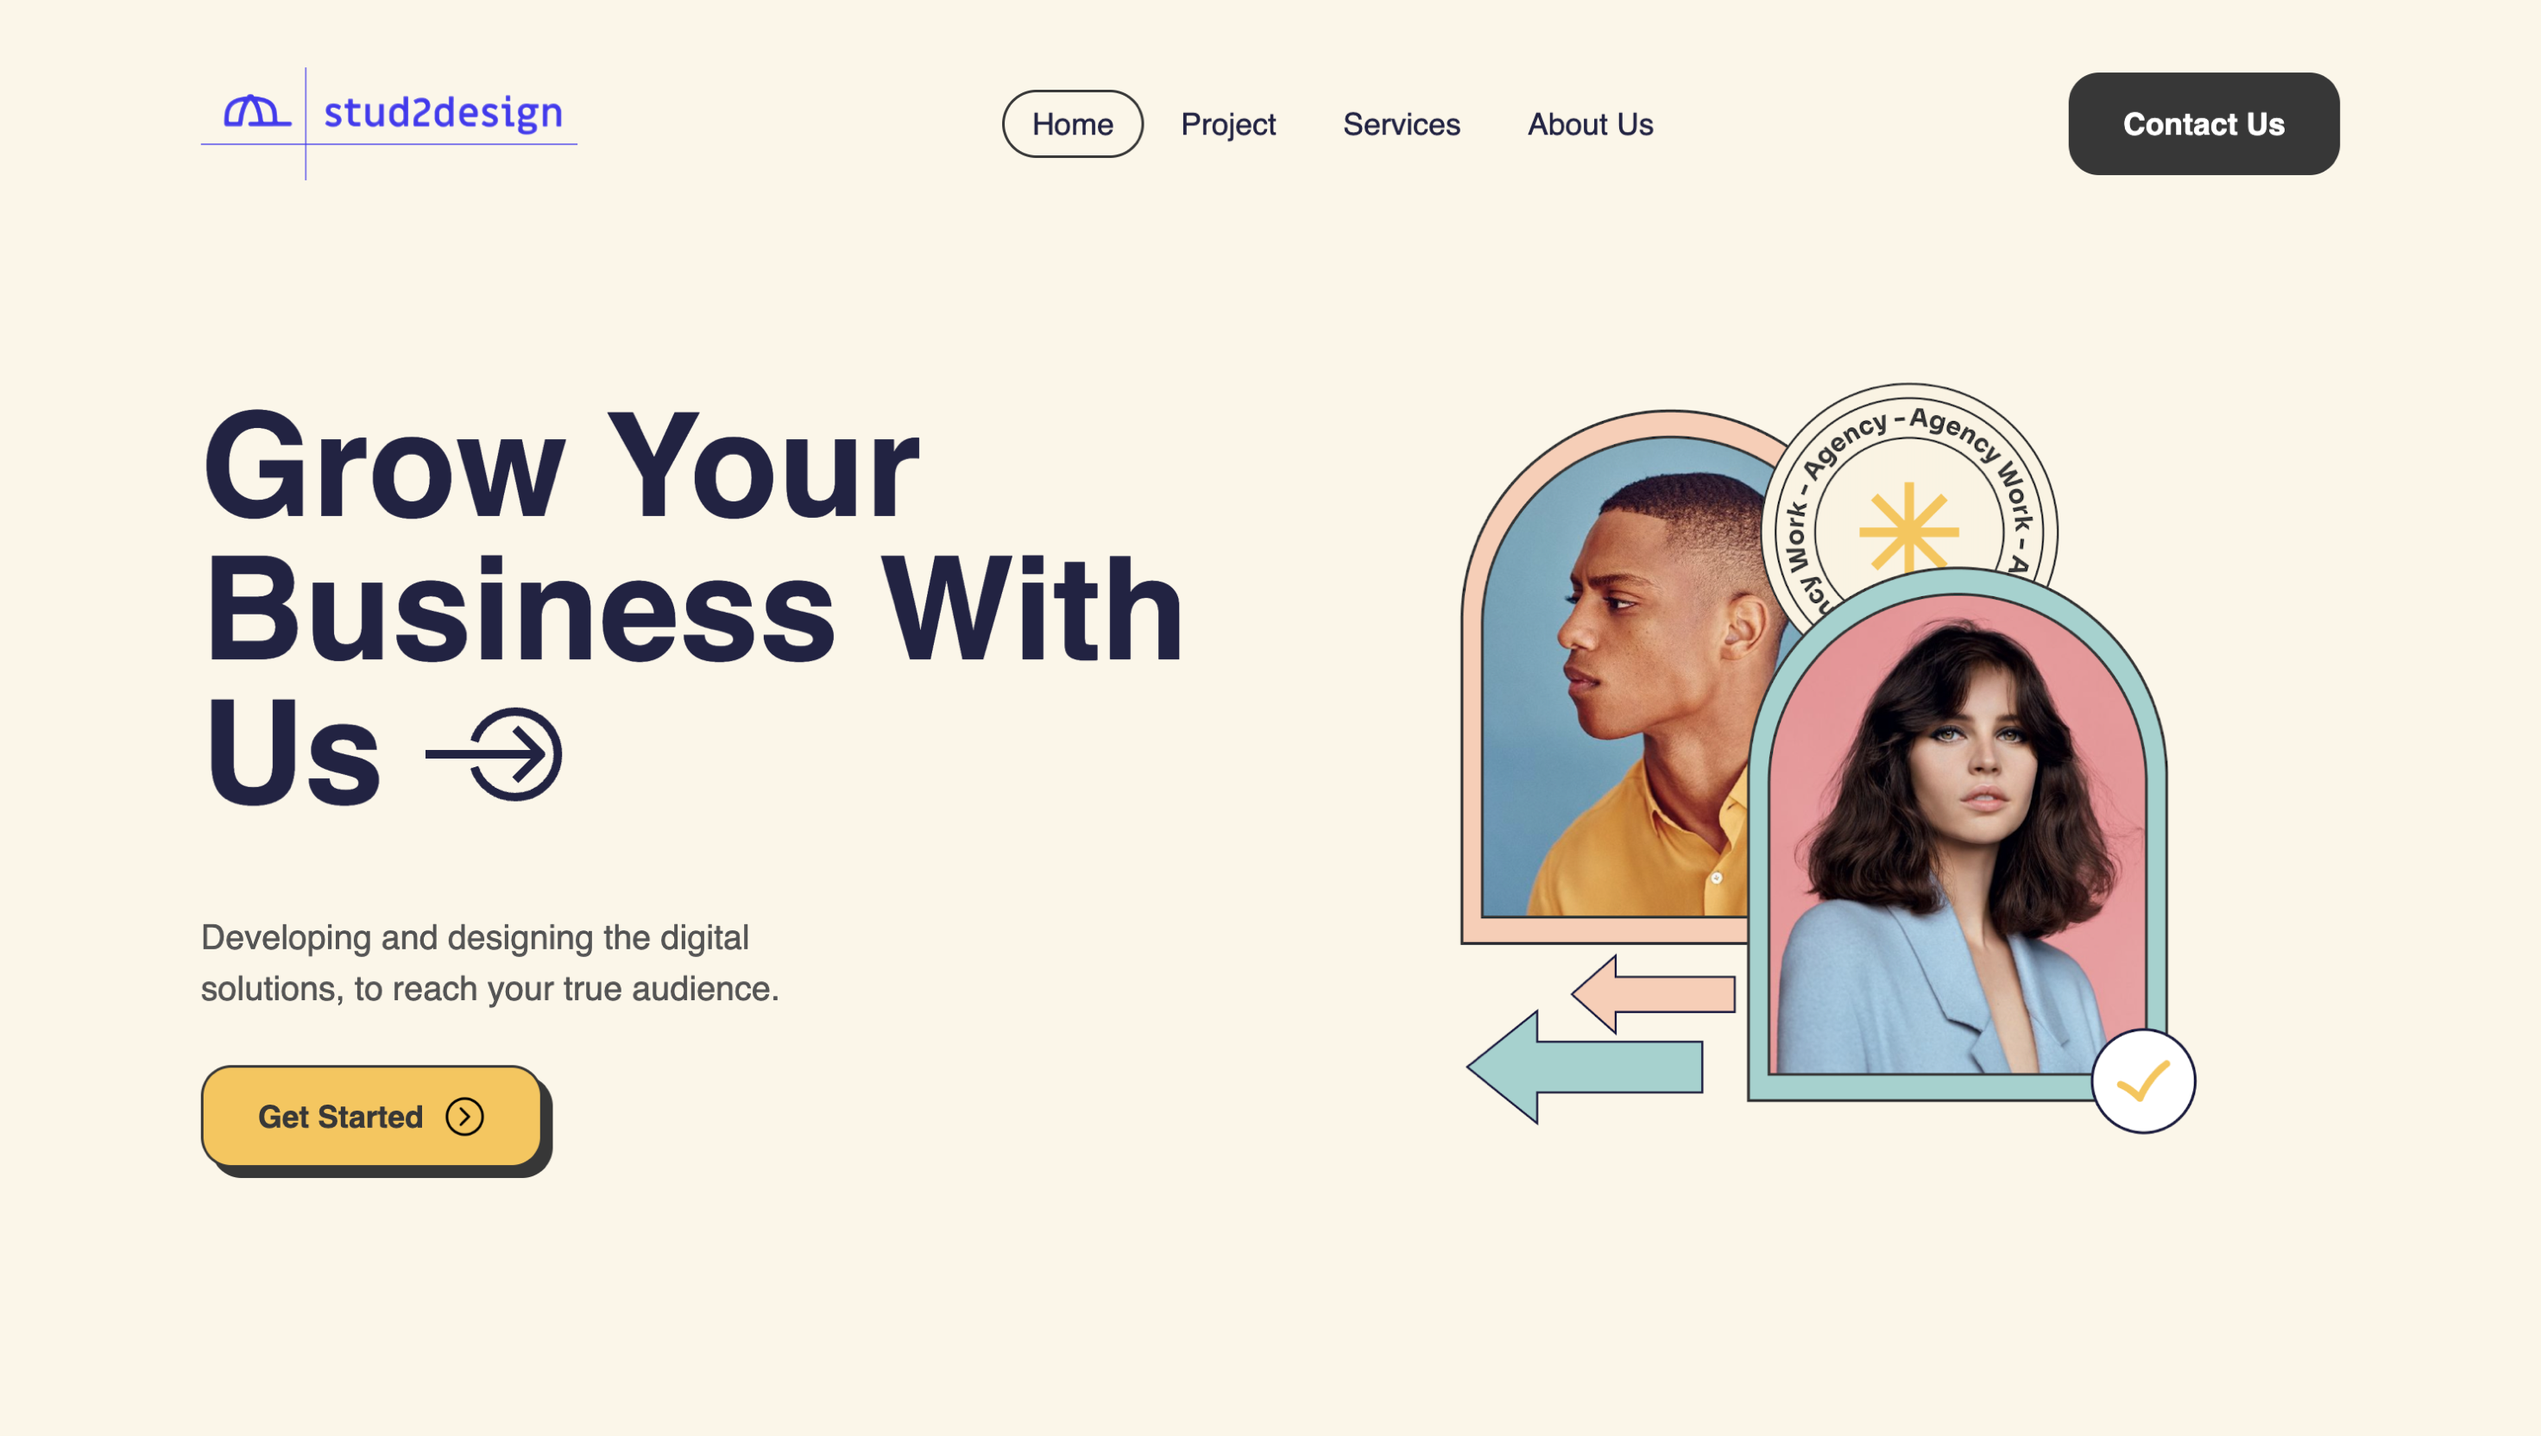
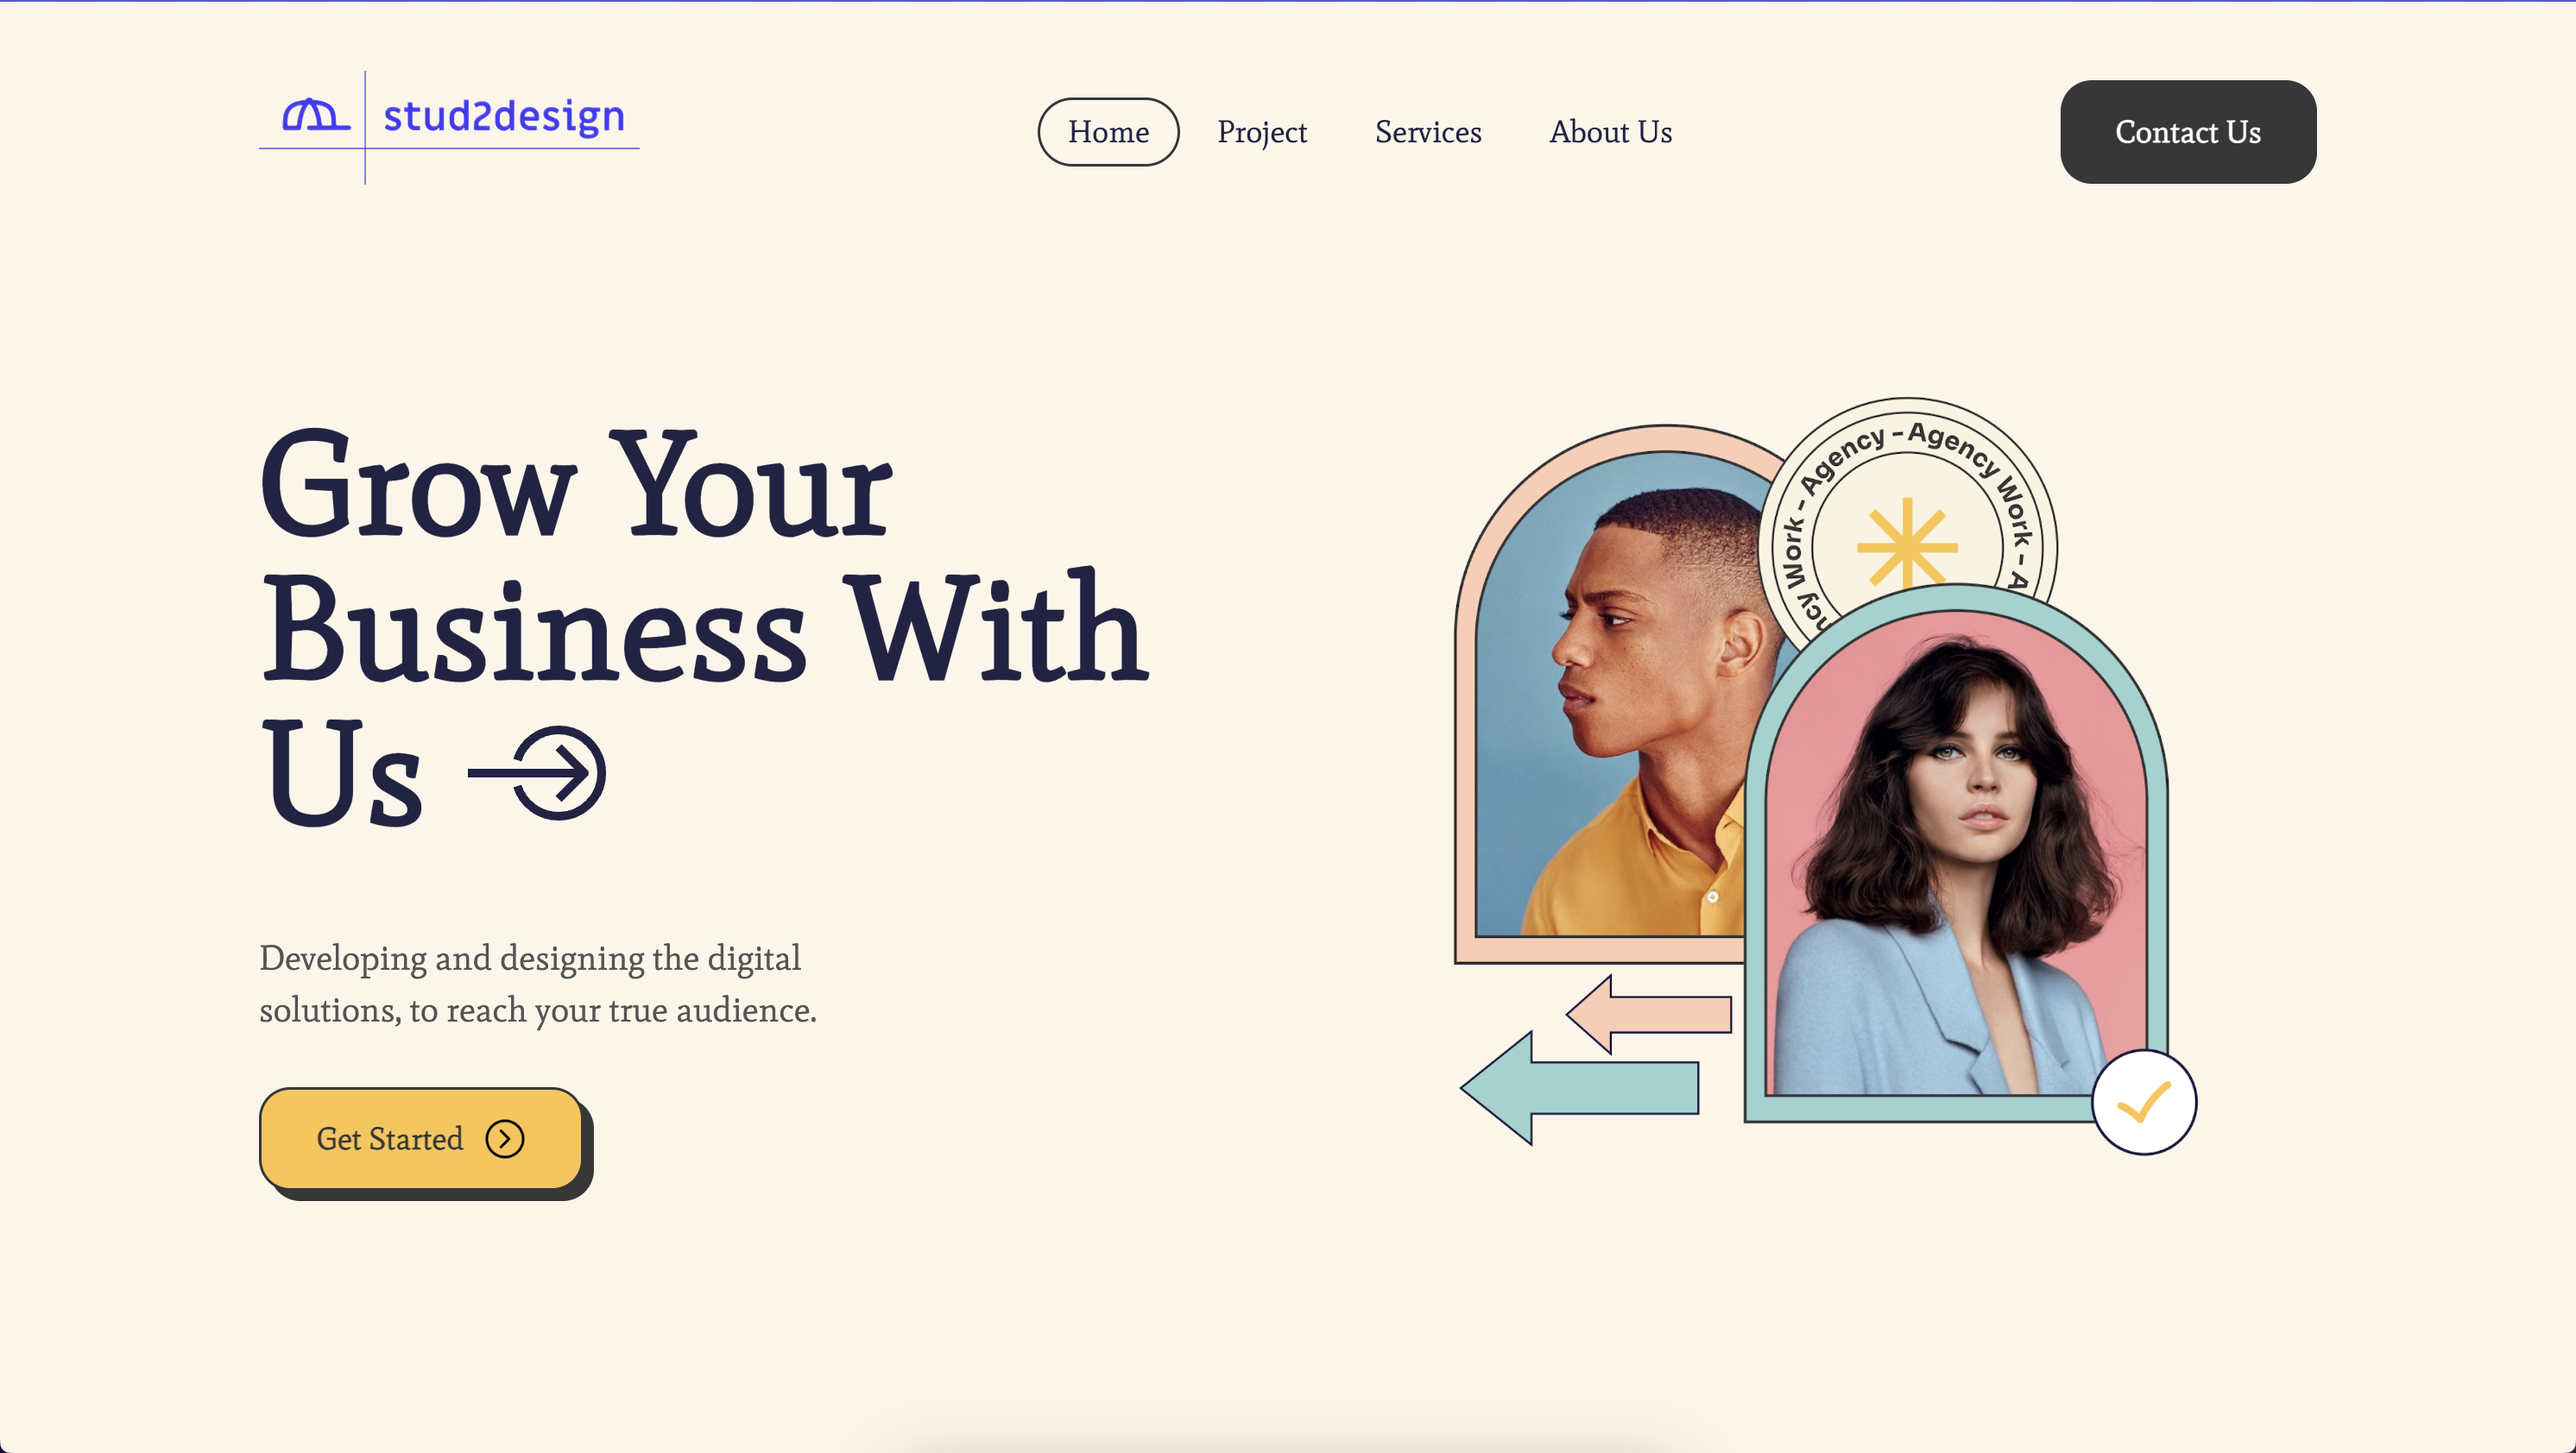
Design credits

diff --git a/pages/neo-brutalism/index.page.jsx b/pages/neo-brutalism/index.page.jsx
@@ -28,7 +28,7 @@ const WHY_US = [
     id: 'experience',
     title: 'Years of Experience',
     highlight: '5+',
-    text: 'Viverra ultricies habitant convallis dui. Sit mauris, tellus nunc sollicitudin consequat sagittis ullamcorper eu. Aenean pretium ac at pulvinar amet.',
+    text: `For the past ten years, we've been dedicated to delivering unmatched design and development services. Our journey has been a testament to our commitment, innovation, and unwavering dedication to our clients.`,
   },
   {
     id: 'clients',
@@ -80,21 +80,21 @@ const TESTIMONIALS = [
     name: 'Olga Zara',
     pic: '/assets/neo-brutalism/olga.png',
     position: 'CBO of Rosey',
-    text: `Perfect agency for small businesses who want to grow, but haven't got time to take care of social media. Already seen growth with online orders...`,
+    text: `Perfect agency for small businesses who want to grow, but haven't got time to take care of social media. Already seen growth with online orders.`,
   },
   {
     id: 2,
     name: 'Yogendra Singh',
     pic: '/assets/neo-brutalism/mitchell.png',
     position: 'CEO of Rabta',
-    text: `Perfect agency for small businesses who want to grow, but haven't got time to take care of social media. Already seen growth with online orders...`,
+    text: `We are happy to hear you had a positive experience at Noren! We value your input and encourage you to let us know more details about your experience with us.`,
   },
   {
     id: 3,
     name: 'Christiana Matt',
     pic: '/assets/neo-brutalism/christina.png',
     position: 'CMO of Oval',
-    text: `Perfect agency for small businesses who want to grow, but haven't got time to take care of social media. Already seen growth with online orders...`,
+    text: `Perfect agency for small businesses who want to grow, but haven't got time to take care of social media. Already seen growth with online orders.`,
   },
 ];
 
@@ -128,8 +128,10 @@ export const Page = () => {
           {tag}
         </span>
         <h3 className={Styles.projectTitle}>{title}</h3>
-        <p className={Styles.subText}>{text}</p>
-        <button className={Styles.seeProjectBtn}>See Full Project </button>
+        <p className={Styles.projectText}>{text}</p>
+        <button className={`${Styles.button} ${Styles.seeProjectBtn}`}>
+          See Full Project
+        </button>
       </div>
       <div
         style={{ boxShadow: `20px 20px ${color}` }}
@@ -146,7 +148,9 @@ export const Page = () => {
         <img className={Styles.profilePic} src={pic} />
       </div>
       <div style={{ flex: 1 }}>
-        <h3 className={Styles.quote}>❝{text}❞</h3>
+        <h3 className={Styles.quote}>
+          ❝<i>{text}</i>❞
+        </h3>
         <div className={Styles.header}>
           <div>
             <p className={Styles.name}>{name}</p>
@@ -181,14 +185,16 @@ export const Page = () => {
     <div className={Styles.page}>
       <main className={Styles.main}>
         <header className={Styles.header}>
-          <img className={Styles.logo} src='./s2d-logo.png' />
+          <a href='/'>
+            <img className={Styles.logo} src='./s2d-logo.png' />
+          </a>
           <menubar>
             <nav className={Styles.active}>Home</nav>
             <nav>Project</nav>
             <nav>Services</nav>
             <nav>About Us</nav>
           </menubar>
-          <button>Contact Us</button>
+          <button className={Styles.button}>Contact Us</button>
         </header>
         <section className={Styles.heroView}>
           <div className={Styles.callout}>
@@ -201,7 +207,7 @@ export const Page = () => {
               Developing and designing the digital solutions, to reach your true
               audience.
             </p>
-            <button className={Styles.primaryBtn}>
+            <button className={`${Styles.button} ${Styles.primaryBtn}`}>
               Get Started
               <img
                 className={Styles.nextIcon}
@@ -249,7 +255,10 @@ export const Page = () => {
           with a different products, target audience and business goal.
         </p>
         {PROJECTS.map(renderProjects)}
-        <button style={{ margin: '50px auto' }} className={Styles.primaryBtn}>
+        <button
+          style={{ margin: '50px auto' }}
+          className={`${Styles.button} ${Styles.primaryBtn}`}
+        >
           See All Projects
           <img
             className={Styles.nextIcon}
@@ -260,6 +269,30 @@ export const Page = () => {
       <div className={Styles.testimonialsView}>
         <h2 className={Styles.heading}>What Our Client Say</h2>
         <div>{renderTestimonial(TESTIMONIALS[current])}</div>
+      </div>
+      <div className={Styles.contact}>
+        <form className={Styles.contactForm}>
+          <h1>Ready to start your project</h1>
+          <input className={Styles.input} placeholder='Name' />
+          <br />
+          <input className={Styles.input} placeholder='Email' />
+          <button type='button' className={Styles.input}>
+            Get Quote
+          </button>
+        </form>
+        <div className={Styles.contactContent}>
+          <p className={Styles.projectText}>
+            Check out the cool work we've done together. Every brand is unique
+            with a different products, target audience and business goal.
+          </p>
+          <button className={`${Styles.button} ${Styles.callBtn}`}>
+            Book a Call
+            <img
+              className={Styles.nextIcon}
+              src='./assets/neo-brutalism/next.png'
+            />
+          </button>
+        </div>
       </div>
       <footer>
         <div className={Styles.footerInfo}>
@@ -287,12 +320,22 @@ export const Page = () => {
             <p>Stay updated</p>
             <div className={Styles.inputView}>
               <input placeholder='Enter your email' />
-              <button className={Styles.subBtn}>Subscribe</button>
+              <button className={`${Styles.button} ${Styles.subBtn}`}>
+                Subscribe
+              </button>
             </div>
           </div>
         </div>
         <div className={Styles.header}>
-          <p>&copy; 2023 Stud2Design. All Rights Reserved. </p>
+          <a className={Styles.credit} href='https://stud2design.in'>
+            &copy; Stud2Design
+          </a>
+          <a
+            className={Styles.credit}
+            href='https://www.behance.net/gallery/177079721/Flowy-Digital-Agency-Landing-Page/modules/1000188899'
+          >
+            Designed By : Akib Tanjil
+          </a>
           <div>Social Icons</div>
         </div>
       </footer>

diff --git a/pages/neo-brutalism/main.module.css b/pages/neo-brutalism/main.module.css
@@ -22,7 +22,7 @@
 }
 
 .main {
-  padding: 40px 120px;
+  padding: 40px 150px;
 }
 
 .header {
@@ -61,7 +61,7 @@ nav:hover {
   border: 1.5px solid var(--grey);
 }
 
-button {
+.button {
   display: flex;
   align-items: center;
   border: none;
@@ -158,7 +158,7 @@ button {
   display: flex;
   flex-direction: column;
   align-items: center;
-  margin: 120px;
+  margin: 150px;
   text-align: center;
 }
 
@@ -287,7 +287,7 @@ button {
 }
 
 .projectsList:nth-child(even) .projectContent {
-  padding-left: 120px;
+  padding-left: 150px;
 }
 
 .projectView {
@@ -301,6 +301,13 @@ button {
 .projectTitle {
   width: 75%;
   font-size: 32px;
+}
+
+.projectText {
+  width: 80%;
+  font-size: 20px;
+  color: var(--lightGrey);
+  line-height: 1.5;
 }
 
 .tag {
@@ -375,7 +382,7 @@ button {
 }
 
 .quote {
-  font-weight: 400;
+  /* font-weight: 400; */
   font-size: 36px;
   line-height: 1.5;
   text-align: left;
@@ -384,13 +391,14 @@ button {
 .label {
   margin: 0px;
   color: white;
-  font-size: 24px;
+  font-size: 20px;
   text-align: left;
+  margin-top: 4px;
 }
 
 .name {
   font-weight: 600;
-  font-size: 28px;
+  font-size: 24px;
   margin: 0px;
   text-align: left;
 }
@@ -412,8 +420,45 @@ button {
   color: white;
 }
 
+.contact {
+  display: flex;
+  align-items: center;
+  background-color: var(--pink);
+  padding: 80px 150px;
+}
+
+.contactForm {
+  flex: 1;
+}
+
+.input {
+  width: 70%;
+  outline: none;
+  border: none;
+  padding: 16px 20px;
+  height: 60px;
+  font-size: 20px;
+  border-bottom: 1.5px solid var(--grey);
+  background-color: transparent;
+  font-family: 'Mate', serif;
+  text-align: left;
+}
+
+.contactContent {
+  flex: 1;
+}
+
+.callBtn {
+  background-color: var(--teal);
+  color: var(--grey);
+  width: fit-content;
+  border: 1.5px solid var(--grey);
+  box-shadow: 6px 6px var(--grey);
+}
+
+
 footer {
-  padding: 80px 120px;
+  padding: 80px 150px;
   background-color: var(--grey);
   color: white;
 }
@@ -428,6 +473,7 @@ footer {
   line-height: 1.5;
   color: #efefef;
   height: 175px;
+  margin-bottom: 12px;
 }
 
 .footerInfo .heading {
@@ -468,4 +514,10 @@ input {
   background: white;
   justify-content: space-between;
   border-radius: 30px;
+  font-size: 20px;
+}
+
+.credit {
+  text-decoration: none;
+  color: white;
 }

diff --git a/pages/3d-web/index.page.jsx b/pages/3d-web/index.page.jsx
@@ -129,7 +129,9 @@ export const Page = () => {
     <div className={Styles.page}>
       <div className={Styles.hero}>
         <header className={Styles.header}>
-          <img className={Styles.logo} src='/s2d-white.png' />
+          <a href='/'>
+            <img className={Styles.logo} src='/s2d-white.png' />
+          </a>
           <menubar className={Styles.menubar}>
             {NAVS.map((title) => (
               <nav className={Styles.nav} key={title}>
@@ -264,7 +266,16 @@ export const Page = () => {
 
       <footer className={Styles.footer}>
         <img className={Styles.logo} src='/s2d-logo.png' />
-        <p>&copy;2023, Pushpendra Singh</p>
+
+        <a
+          className={Styles.credit}
+          href='https://www.behance.net/gallery/103082395/Noren-Landing-page-Free-Download/modules/594121511'
+        >
+          Designed By, Ghassan Hani
+        </a>
+        <a className={Styles.credit} href='https://stud2design.in'>
+          &copy; Stud2Design
+        </a>
       </footer>
     </div>
   );

diff --git a/pages/index/index.page.jsx b/pages/index/index.page.jsx
@@ -29,18 +29,7 @@ const Page = () => {
             <img className={Styles.heroImg} src='/pattern.png' />
           </div>
         </section>
-        {/* <section className={Styles.display}>
-          <h1 className={Styles.heading}>Transforming Ideas into</h1>
-          <h1 className={`${Styles.heading} ${Styles.accent}`}>
-            Captivating Landings
-          </h1>
-          <p className={Styles.info}>
-            Your ultimate destination for captivating landing page inspirations.
-            Immerse yourself in a gallery of cutting-edge design concepts that
-            ignite creativity and transform ideas into captivating digital
-            experiences.
-          </p>
-        </section> */}
+
         <section className={Styles.gallery}>
           <div className={Styles.galleryView}>
             <a className={Styles.card} href='/neo-brutalism'>

diff --git a/pages/index/main.module.css b/pages/index/main.module.css
@@ -49,7 +49,7 @@
 .name {
   font-size: 32px;
   font-weight: 600;
-  font-family: 'Yeseva One', cursive;
+  font-family: 'Yeseva One', serif;
   color: var(--red);
   margin: 0px;
   padding-left: 12px;
@@ -83,7 +83,7 @@
 }
 
 .heroHeading {
-  font-family: 'Yeseva One', cursive;
+  font-family: 'Yeseva One', serif;
   margin-bottom: 0px;
   font-size: 64px;
 }

diff --git a/pages/3d-web/main.module.css b/pages/3d-web/main.module.css
@@ -406,3 +406,9 @@
   padding: 0px 200px;
   margin-top: 100px;
 }
+
+.credit {
+  color: var(--text);
+  text-decoration: none;
+  font-size: 18px;
+}
